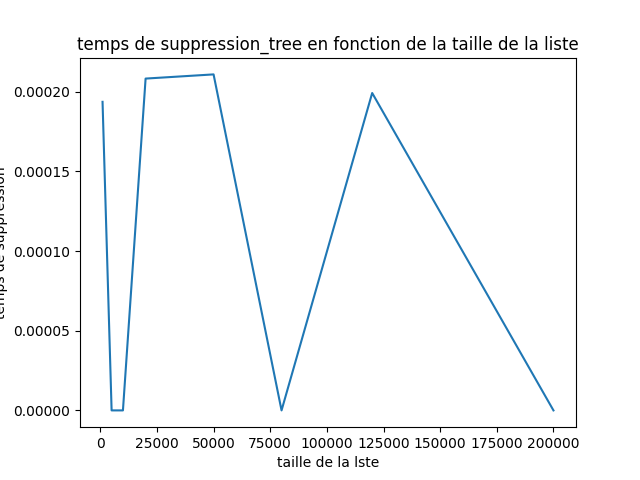
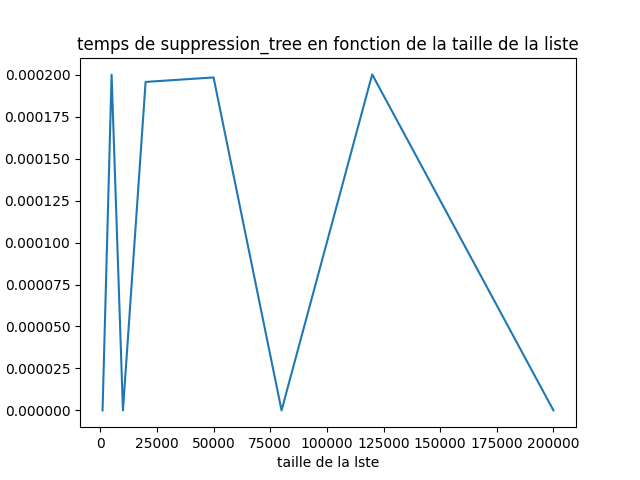
d

diff --git a/algos.py b/algos.py
@@ -158,12 +158,12 @@ class MinHeapBinaryTree:
             if 2*i+1 < len(nodes):
                 nodes[i].left = nodes[2*i+1]
                 nodes[2*i+1].parent = nodes[i]
-                nodes[2*i+1].hight = nodes[i].hight + 1
+                nodes[2*i+1].height = nodes[i].height + 1
                 self.root.deepest = nodes[2*i+1]
             if 2*i+2 < len(nodes):
                 nodes[i].right = nodes[2*i+2]
                 nodes[2*i+2].parent = nodes[i]
-                nodes[2*i+2].hight = nodes[i].hight + 1
+                nodes[2*i+2].height = nodes[i].height + 1
                 self.root.deepest = nodes[2*i+2]
         # Heapify the tree
         for i in range(len(nodes)//2, -1, -1):
@@ -425,53 +425,53 @@ list_of_sizes = [1000, 5000 ,10000, 20000, 50000, 80000, 120000 ,200000]
 # plt.savefig("experiments/temps_de_construction_tree.png")
 
 
-def moyenne_temps_suppression_table(list_of_sizes):
-    list_of_times = []
-    for size in list_of_sizes:
-        list_of_times_for_size = []
-        for i in range(1,6):
-            list_of_values = st.treat_from_file("cles_alea/jeu_"+str(i)+"_nb_cles_"+str(size)+".txt")
-            heap = MinHeapTable()
-            heap._ajout_iteratif(list_of_values)
-            start_time = time.time()
-            heap._suppmin()
-            end_time = time.time()
-            list_of_times_for_size.append(end_time - start_time)
-        list_of_times.append(np.mean(list_of_times_for_size))
-    return list_of_times
-
-list_of_times = moyenne_temps_suppression_table(list_of_sizes)
-plt.clf()
-plt.plot(list_of_sizes, list_of_times)
-plt.xlabel("taille de la lste")
-plt.ylabel("temps de suppression")
-plt.title("temps de suppression en fonction de la taille de la liste")
-# plt.show()
-plt.savefig("experiments/temps_de_suppression_table.png")
-
-# def moyenne_temps_suppression_tree(list_of_sizes):
+# def moyenne_temps_suppression_table(list_of_sizes):
 #     list_of_times = []
 #     for size in list_of_sizes:
 #         list_of_times_for_size = []
 #         for i in range(1,6):
 #             list_of_values = st.treat_from_file("cles_alea/jeu_"+str(i)+"_nb_cles_"+str(size)+".txt")
-#             heap = MinHeapBinaryTree()
-#             heap.ajout_iteratif(list_of_values)
+#             heap = MinHeapTable()
+#             heap._ajout_iteratif(list_of_values)
 #             start_time = time.time()
-#             heap.suppmin()
+#             heap._suppmin()
 #             end_time = time.time()
 #             list_of_times_for_size.append(end_time - start_time)
 #         list_of_times.append(np.mean(list_of_times_for_size))
 #     return list_of_times
 
-# list_of_times = moyenne_temps_suppression_tree(list_of_sizes)
+# list_of_times = moyenne_temps_suppression_table(list_of_sizes)
 # plt.clf()
 # plt.plot(list_of_sizes, list_of_times)
 # plt.xlabel("taille de la lste")
 # plt.ylabel("temps de suppression")
-# plt.title("temps de suppression_tree en fonction de la taille de la liste")
+# plt.title("temps de suppression_table en fonction de la taille de la liste")
 # # plt.show()
-# plt.savefig("experiments/temps_de_suppression_tree.png")
+# plt.savefig("experiments/temps_de_suppression_table.png")
+
+def moyenne_temps_suppression_tree(list_of_sizes):
+    list_of_times = []
+    for size in list_of_sizes:
+        list_of_times_for_size = []
+        for i in range(1,6):
+            list_of_values = st.treat_from_file("cles_alea/jeu_"+str(i)+"_nb_cles_"+str(size)+".txt")
+            heap = MinHeapBinaryTree()
+            heap.construction(list_of_values)
+            start_time = time.time()
+            heap.suppmin()
+            end_time = time.time()
+            list_of_times_for_size.append(end_time - start_time)
+        list_of_times.append(np.mean(list_of_times_for_size))
+    return list_of_times
+
+list_of_times = moyenne_temps_suppression_tree(list_of_sizes)
+plt.clf()
+plt.plot(list_of_sizes, list_of_times)
+plt.xlabel("taille de la lste")
+plt.ylabel("temps de suppression")
+plt.title("temps de suppression_tree en fonction de la taille de la liste")
+# plt.show()
+plt.savefig("experiments/temps_de_suppression_tree.png")
 
 
 
